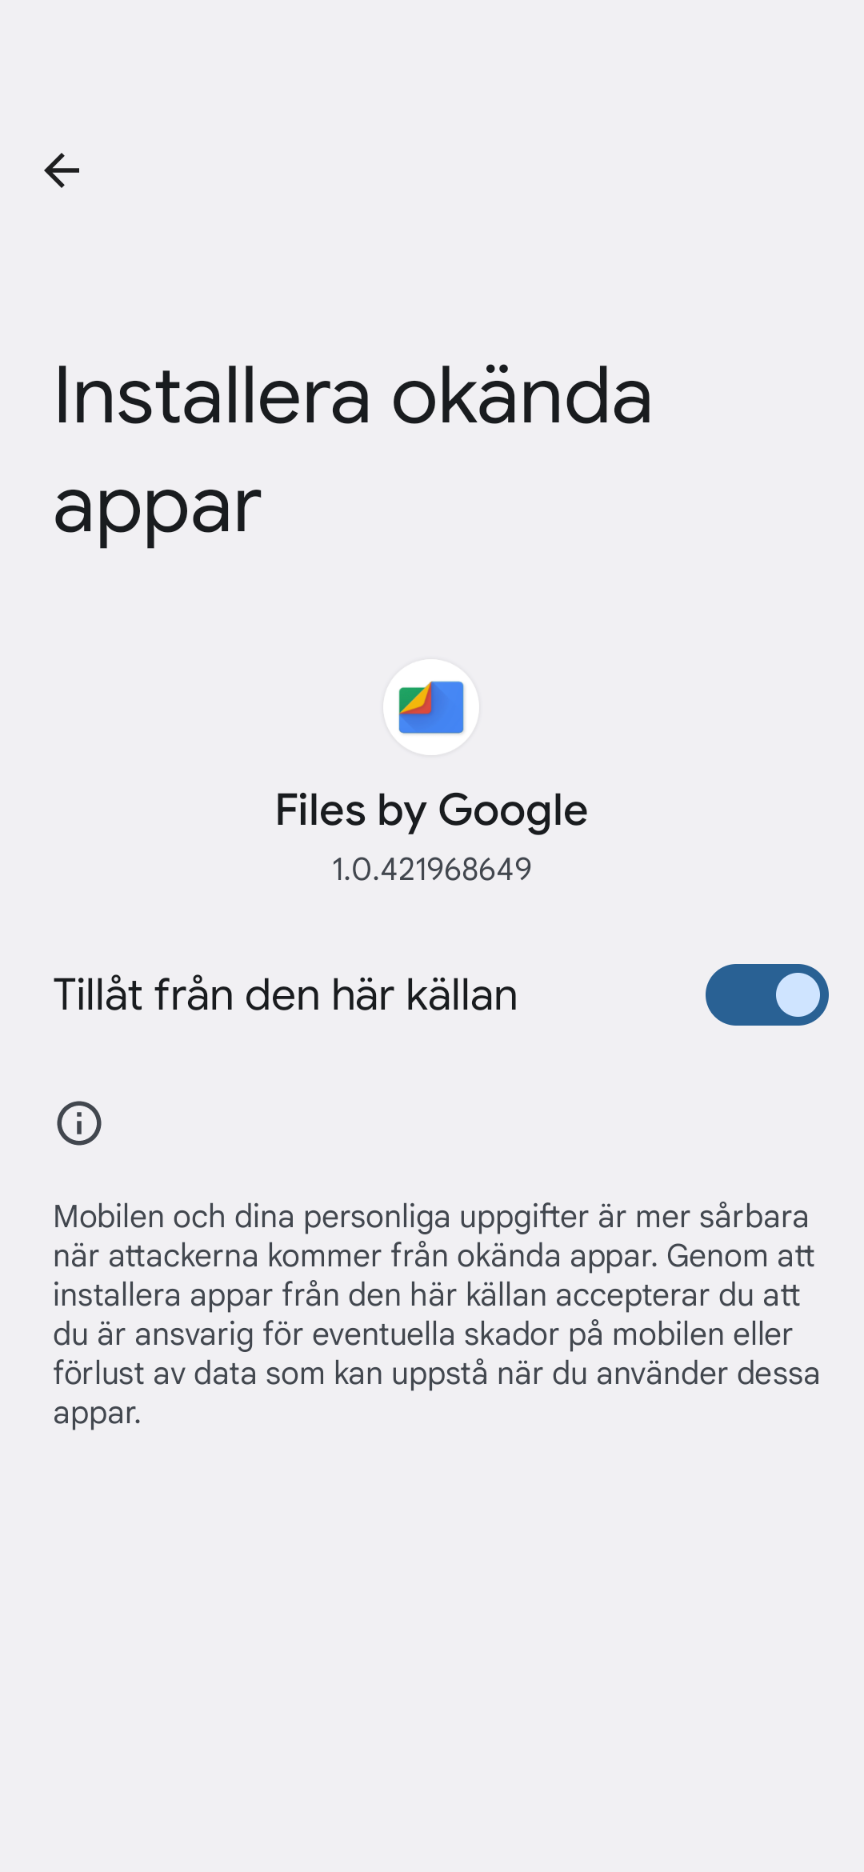
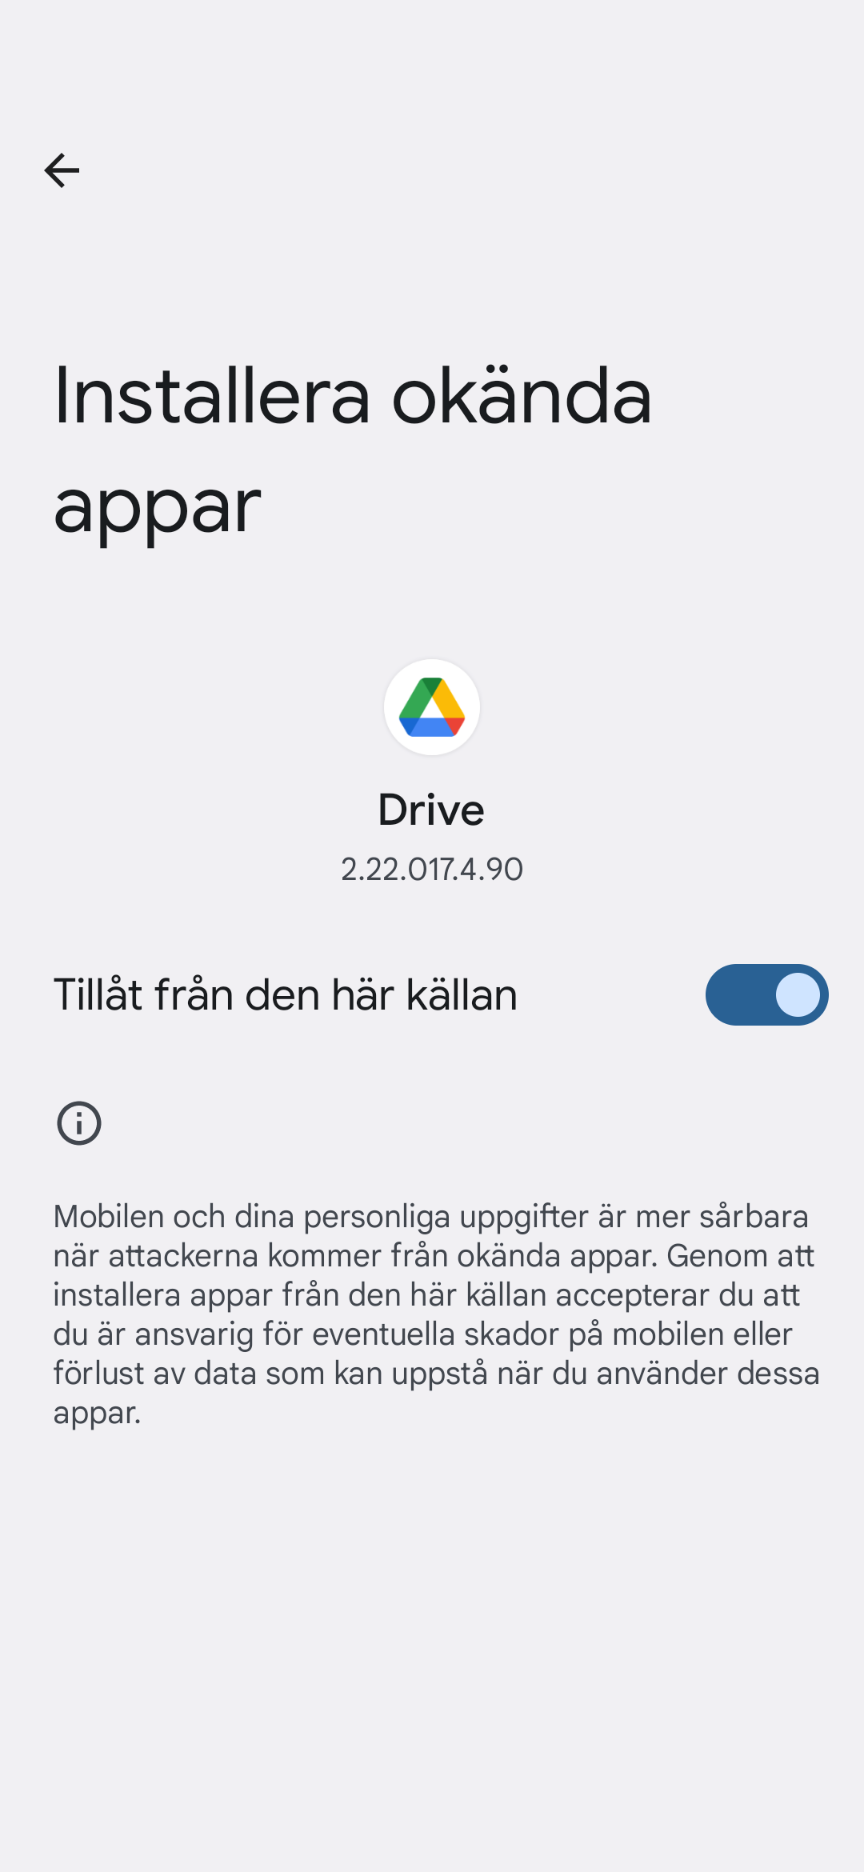
readme

Changed region(s): [[0.3125, 0.3408, 0.6875, 0.4957]]

diff --git a/README.md b/README.md
@@ -21,17 +21,25 @@ Det är väldigt viktigt att den som loopar förstår hur loopen tänker, och at
 ![BYODA-version](./images/NS_exempel.png)
 
 ## Hur installerar man en app som inte kommer från google
-Flra av systemen som kommer bygger på att du installerar en app på telefonen som inte finns på google-play. För att kunna göra det måste du gå in på inställningar och berätta för telefonen att t.ex. "Files by Google" (appen du kan visa filsystemet i Android) har rättigheter att installera appar. 
-På min telefon (Google pixel 4a med android 12) hittas denna inställning: 
-1. Inställningar
-2. Appar
-3. Särskild appåtkomst
-4. Installera okända appar
+1.  Stäng av "Play protect"
 
-Lättast är nog om du öppnar inställningar och söker i sökrutan efter "okända" eller "installera" så hittar du nog snabbt till rätt ställe.
-I den listan väljer "Files by Google" (eller din filhanterare) och tillåter att den får installera andra appar.
+    - Play protect ska behållas avslagen då den annars kommer försöka stänga av alla dina AAPS-appar varje natt!
+    - Inställningar/Säkerhet/Appsäkerhet/Kugghjulet uppe till höger
+     - Stäng av både "Sök igenom appar" och "Förbättra appidentifiering"
+2. Tillåt installation från annan källa
+    - Flera av systemen som kommer bygger på att du installerar en app på telefonen som inte finns på google-play. För att kunna göra det måste du gå in på inställningar och berätta för telefonen att förslagsvis "Drive" (google drive). 
+    
+    - På min telefon (Google pixel 4a med android 12) hittas denna inställning: 
+        - Inställningar/Appar/Särskild appåtkomst/Installera okända appar
+        - Lättast är nog om du öppnar inställningar och söker i sökrutan efter "okända" eller "installera" så hittar du nog snabbt till rätt ställe.
+I den listan väljer "Drive" och tillåter att den får installera andra appar.
 
 <img src="./images/AllowInstalation.png" height="400">
+
+
+Dropbox funkar också, men tillåter inte direktinstallation från appen, då måste man först kopiera apk-filen till telefonens internminne (tre punkter/Exportera/Spara till Enhet) och sedan tillåta att t.ex. "Files by google" får installera appar (likt steget för Drive ovan).
+
+
 
 ## Installera CGM
 Den oficiella Dexcom-appen är låst till att bara fungera på vissa mobiler och den är också låst till att bara skicka sin data till Dexcom-share. Det finns en patchad (hackad) variant som du själv konfigurerar/bygger i ett google-formulär och sedan får en länk att ladda ner appen (apk-filen).
@@ -66,12 +74,14 @@ I steget när du har byggt appen i AndroidStudio och öppnar "Event log" så kom
 
 `Generate Signed APK: Errors while building APK. You can find the errors in the 'Messages' view.`
 
-om det bara står:
+Om allt har gått bra så står det bara:
 
 `Generate Signed APK: APK(s) generated successfully for module 'AndroidAPS.app' with 0 build variants:` 
 
-så har du lyckats, och måste själv leta reda på filen som kommer ligga under mappen som du laddade ner all kod till (inte androidStudio, utan AAPS-koden) och däri har det skapats en mapp "app" där du hittar `app/full/app-full-release.apk`. 
+Och nu måste du själv leta reda på apk-filen som kommer ligga under mappen som du laddade ner all kod till (inte androidStudio, utan AAPS-koden) och där i har det skapats en mapp "app" där du hittar:
+`app/full/app-full-release.apk`. 
 
+Ta nu och ladda upp `app-full-release.apk` till t.ex. Gdrive och 
 
 d
 
